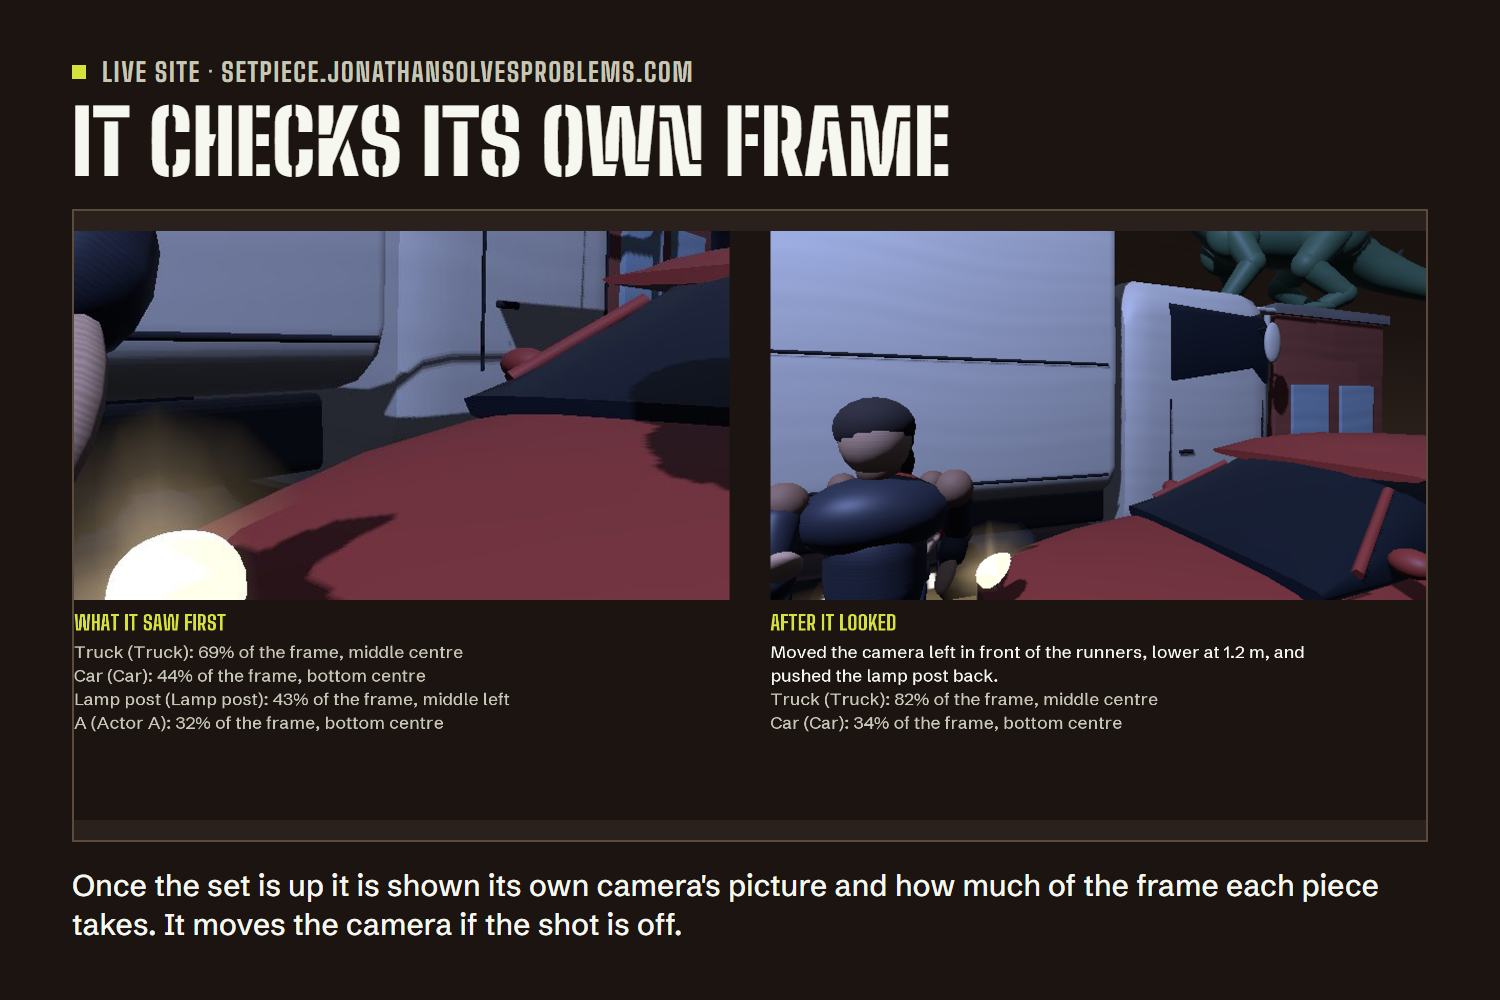
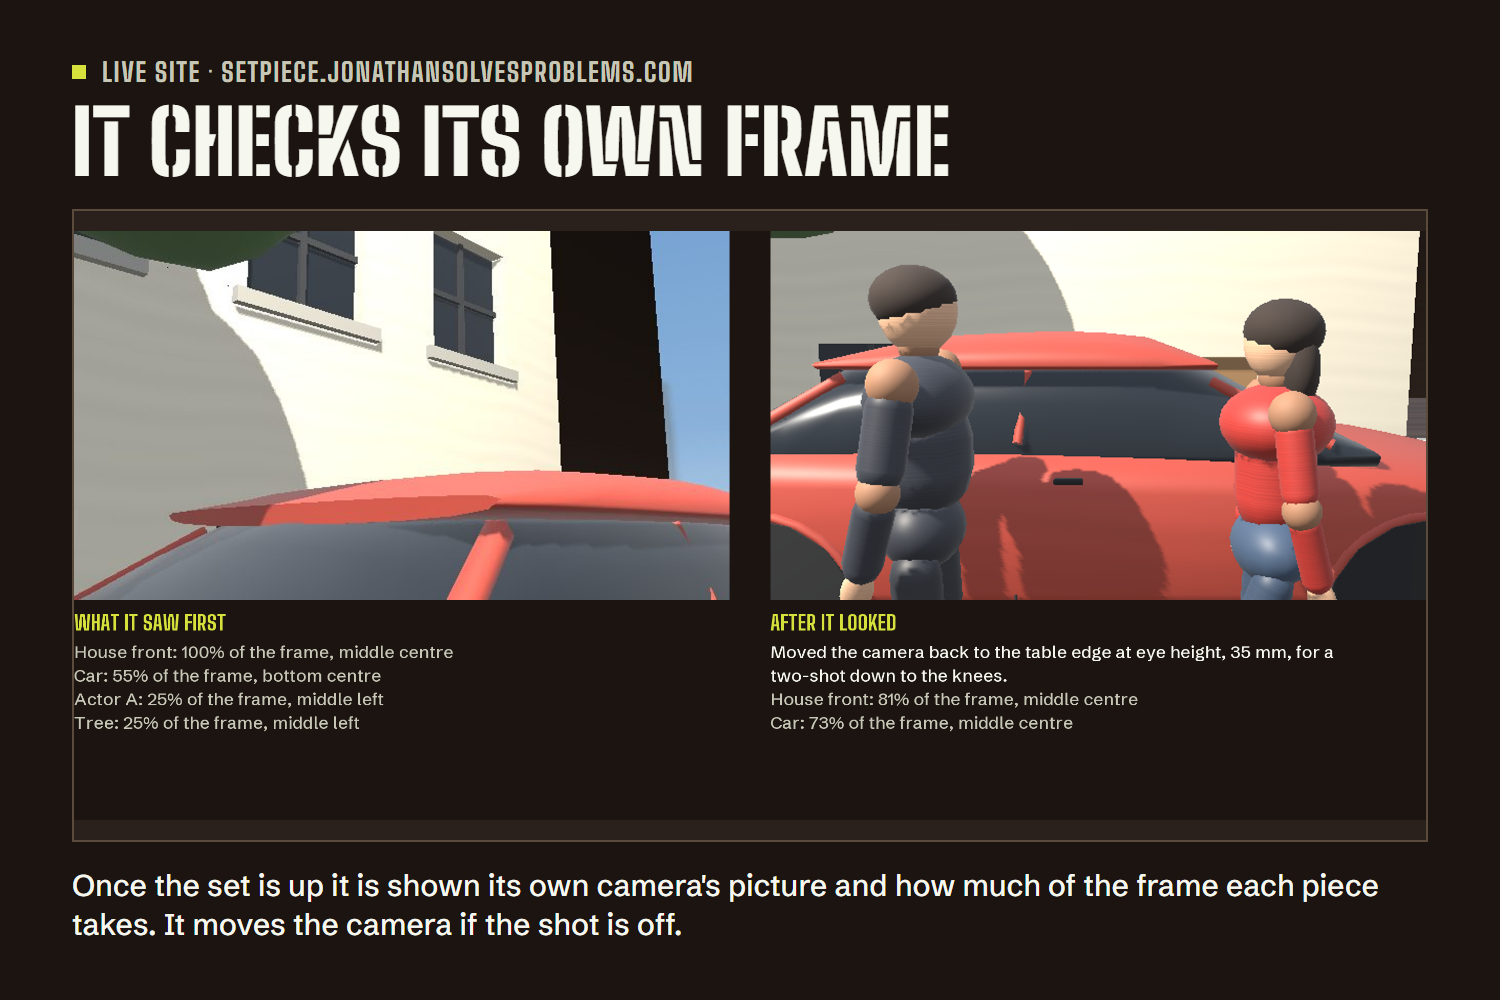
Gallery: the slide of the designer checking its own frame is a clearer run (nobody in the first frame, a two-shot after it looked), and each piece is named once on it

diff --git a/tools/gallery.py b/tools/gallery.py
@@ -340,7 +340,7 @@ async def live_capture(browser, recipe: str, out: Path) -> Path:
         said = {
             'designer': 'a night chase, a red car racing past a burning truck, two actors running at camera, and a dragon on a rooftop',
             'castle': 'a medieval castle gate with two guards and a horse, low angle',
-            'look': 'a night chase, a red car racing past a burning truck, two actors running at camera, and a dragon on a rooftop',
+            'look': 'two people arguing beside a red car in front of a house, a tree to one side, in daylight',
         }[recipe]
         # What the designer was shown at its first look, kept from the request the page sends.
         await page.evaluate('''() => {
@@ -396,11 +396,13 @@ async def live_capture(browser, recipe: str, out: Path) -> Path:
             label = ImageFont.truetype(str(ROOT / 'public' / 'ui' / 'fonts' / 'BigShoulders-Bold.ttf'), 40)
             draw.text((0, 740), 'WHAT IT SAW FIRST', font=label, fill=(214, 225, 60))
             draw.text((1360, 740), 'AFTER IT LOOKED', font=label, fill=(214, 225, 60))
-            import textwrap
+            import textwrap, re
+            # A piece is named once: "Truck (Truck)" is the truck, "A (Actor A)" is actor A.
+            named = lambda text: re.sub(r'^([^(:]+) \(([^)]+)\):', lambda m: m.group(2) + ':', text)
             # What it was told about its first frame: the first words of each piece's line, whole.
             y = 800
             for line in looks[0]['report'].split('\n')[:4]:
-                draw.text((0, y), line[2:].split(';')[0].split(', ')[0] + ', ' + line[2:].split(', ')[1] if ', ' in line else line[2:], font=face, fill=(199, 199, 183))
+                draw.text((0, y), named(line[2:].split(';')[0].split(', ')[0] + ', ' + line[2:].split(', ')[1] if ', ' in line else line[2:]), font=face, fill=(199, 199, 183))
                 y += 46
             # Its own note says what it changed, in full; the lines under it are measured from the frame it left.
             words = note.split(' | ', 1)[-1].split('. ', 1)[-1] if 'THROUGH THE LENS' not in note else note.split(' | ', 1)[-1]
@@ -409,7 +411,7 @@ async def live_capture(browser, recipe: str, out: Path) -> Path:
                 draw.text((1360, y), row, font=face, fill=(246, 247, 239))
                 y += 46
             for line in measured.split('\n')[:2]:
-                draw.text((1360, y), (line[2:].split(', ')[0] + ', ' + line[2:].split(', ')[1]) if ', ' in line else line[2:], font=face, fill=(199, 199, 183))
+                draw.text((1360, y), named((line[2:].split(', ')[0] + ', ' + line[2:].split(', ')[1]) if ', ' in line else line[2:]), font=face, fill=(199, 199, 183))
                 y += 46
             sheet.save(png)
     elif recipe == 'dresser':
